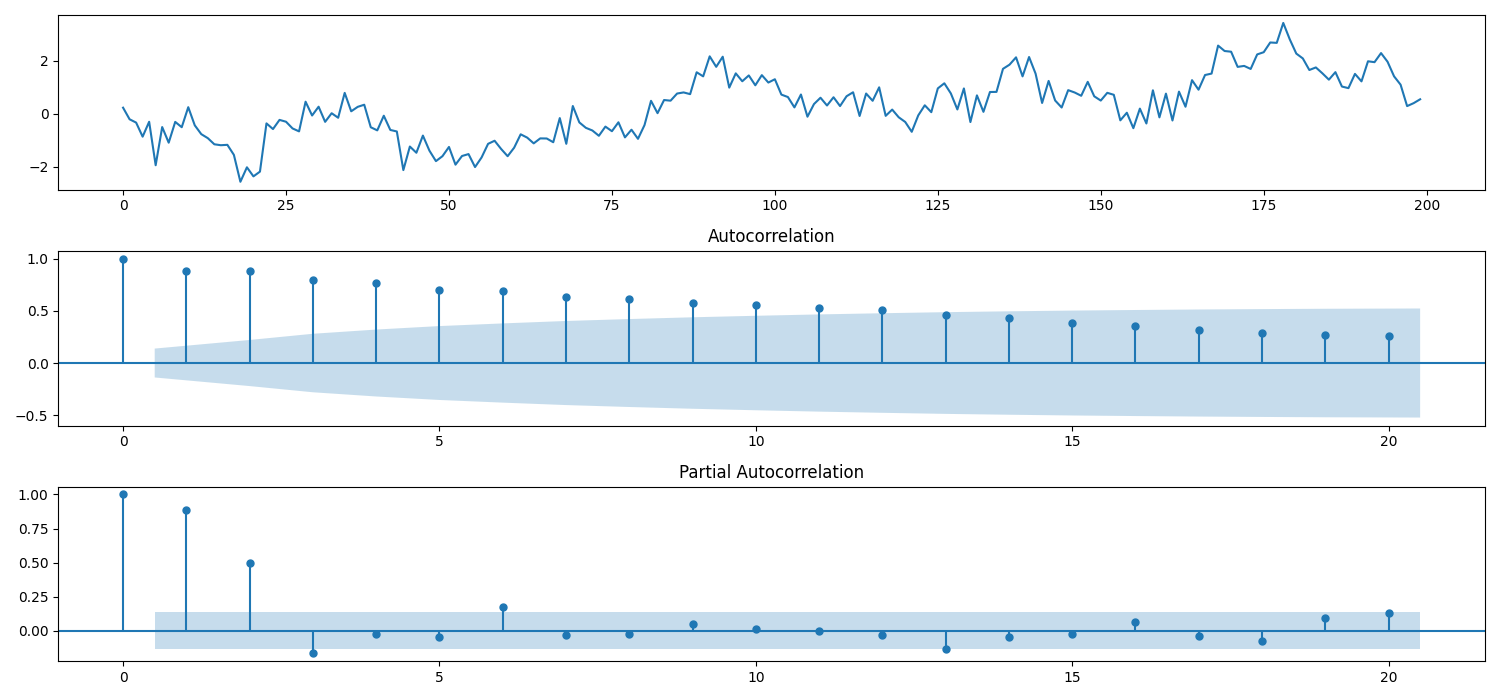
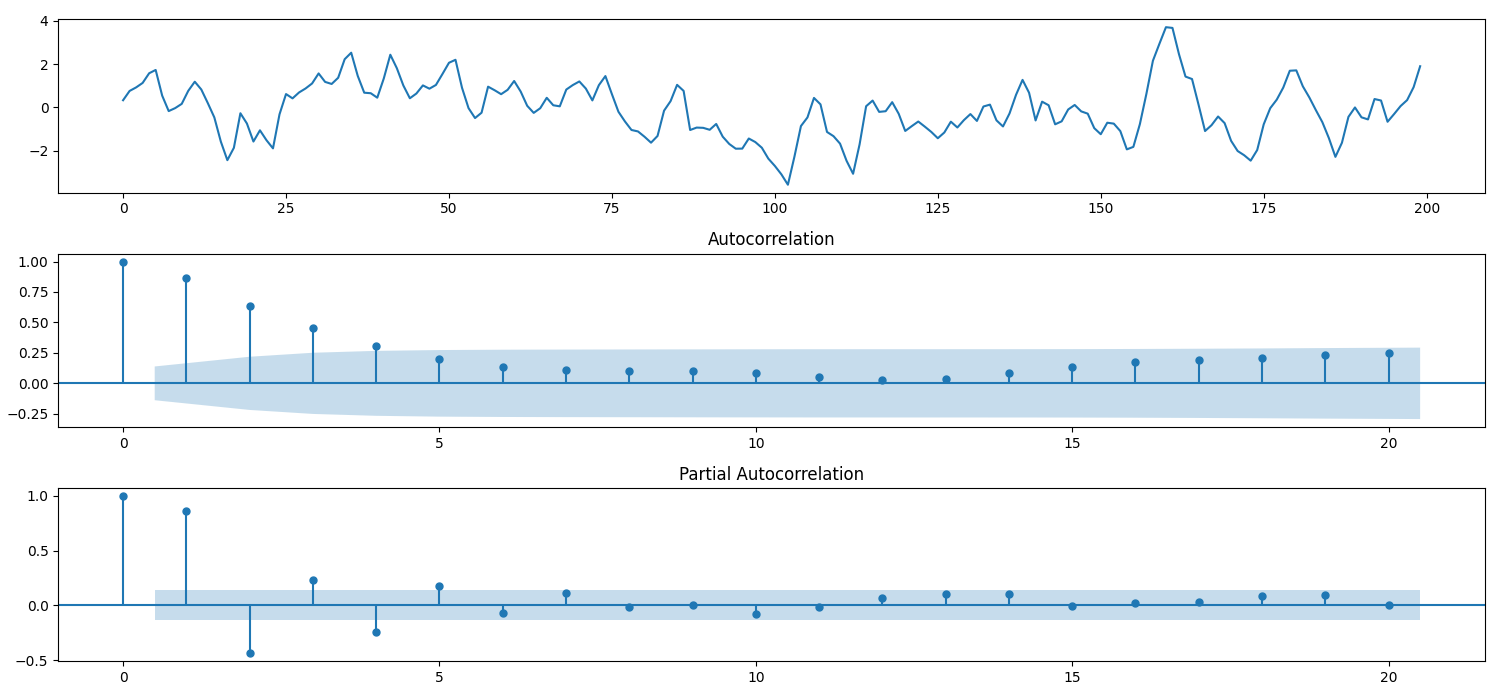
MA coeffs minus added

diff --git a/kf_arma_generator.py b/kf_arma_generator.py
@@ -27,7 +27,7 @@ def KF_ARMA_generator(a, b, n, mu = 0, sigm=0.5):
 
         for j,tb in enumerate(b):
             if (j+1) <= len(result):
-                y += e[i-(j+1)]*tb
+                y += e[i-(j+1)]*(-tb)
                 
         result.append(y)
 
@@ -59,3 +59,5 @@ def KF_ARMA_visualisator(a, b, n, mu = 0, sigm=0.5, lags = 20):
 
     plt.tight_layout()
     plt.show()
+
+#KF_ARMA_visualisator([0.7], [-0.9], 200)

diff --git a/README.md b/README.md
@@ -1,5 +1,9 @@
 # ARMA_generator
 Generation and visualisation of ARMA processes
+of the kind 
+
+y(t) = a1*y(t-1) + a2*y(t-2) + ... + am(t-m) + e(t) - b1*e(t-1) - b2*e(t-2) - ... - bq*e(t)
+
 convenient for ARMA process classification - you can see how ACF and PACF look like for the given parameters
 
 contains two functions 
